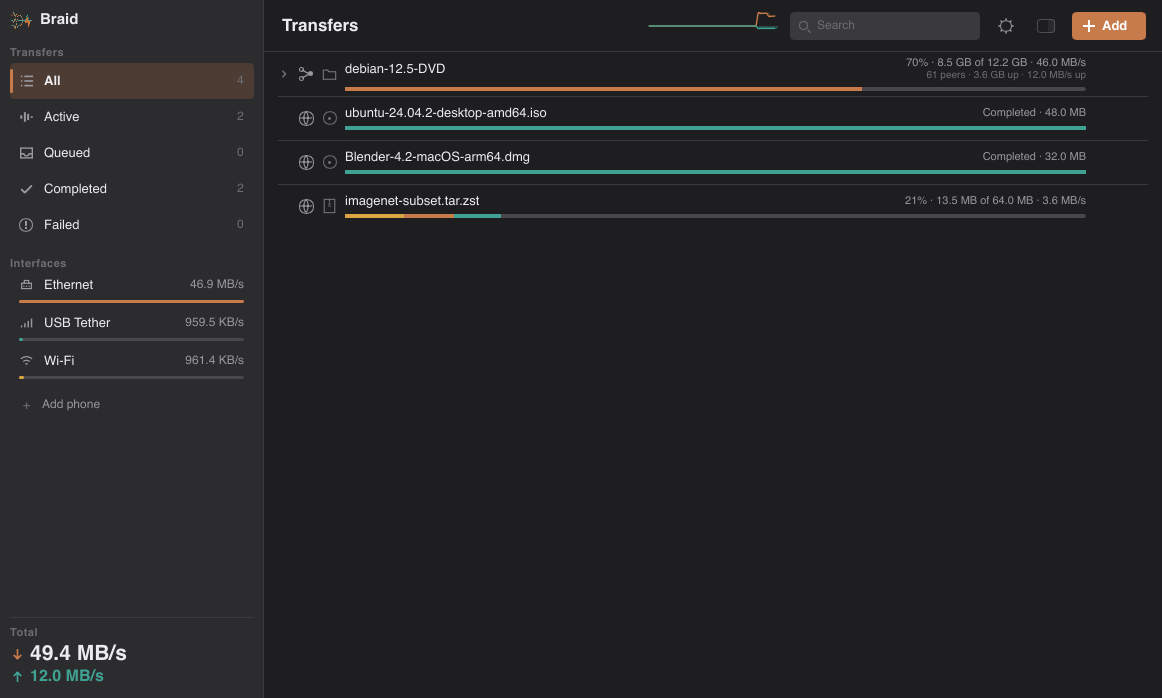
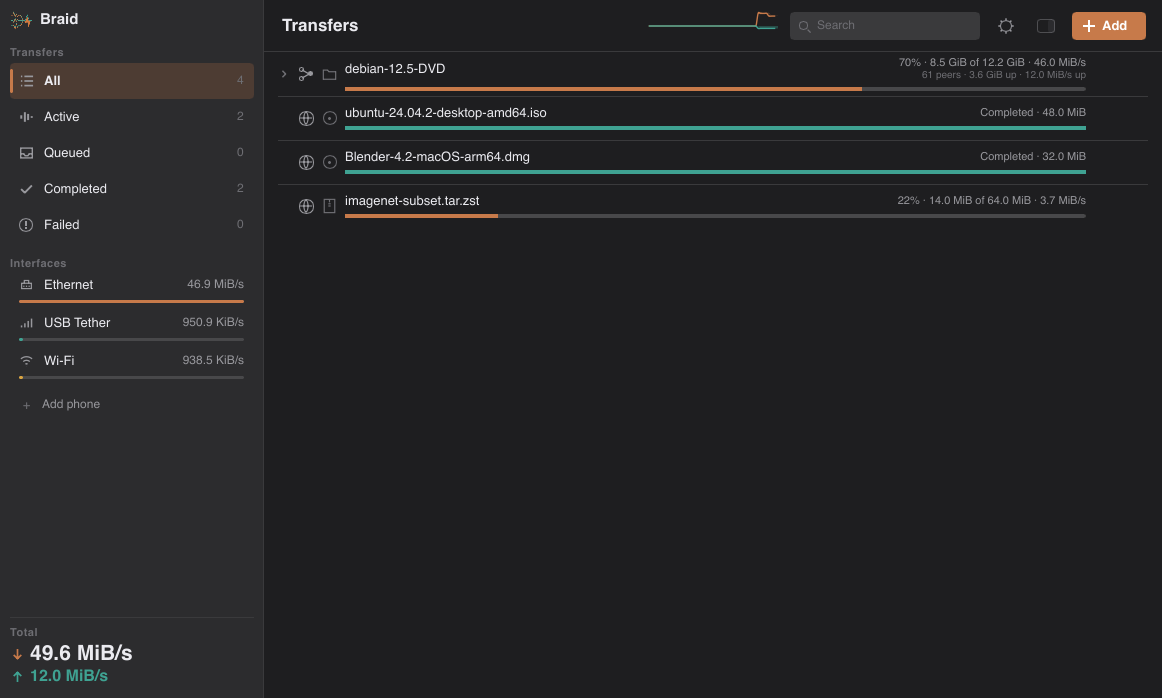
Label bytes with the units the arithmetic actually uses

diff --git a/crates/dl-cli/src/human.rs b/crates/dl-cli/src/human.rs
@@ -54,7 +54,11 @@ pub fn parse_digest(input: &str) -> Result<Digest> {
 }
 
 pub fn bytes(n: u64) -> String {
-    const UNITS: [&str; 5] = ["B", "KB", "MB", "GB", "TB"];
+    // Binary units with the labels that actually match them. Dividing by 1024
+    // and calling the result MB is the usual convention and still a lie: it
+    // reads seven percent low against the figure a download page quotes, and
+    // it disagreed with the phone companion, which counts the same transfer.
+    const UNITS: [&str; 5] = ["B", "KiB", "MiB", "GiB", "TiB"];
     let mut value = n as f64;
     let mut unit = 0;
     while value >= 1024.0 && unit < UNITS.len() - 1 {
@@ -192,9 +196,9 @@ mod tests {
     fn byte_formatting() {
         assert_eq!(bytes(0), "0 B");
         assert_eq!(bytes(1023), "1023 B");
-        assert_eq!(bytes(1024), "1.0 KB");
-        assert_eq!(bytes(1536), "1.5 KB");
-        assert_eq!(bytes(1 << 30), "1.0 GB");
+        assert_eq!(bytes(1024), "1.0 KiB");
+        assert_eq!(bytes(1536), "1.5 KiB");
+        assert_eq!(bytes(1 << 30), "1.0 GiB");
     }
 
     #[test]

diff --git a/crates/dl-gui/src/settings.rs b/crates/dl-gui/src/settings.rs
@@ -777,7 +777,11 @@ pub fn parse_rate(text: &str) -> Option<u64> {
 
 /// Render a rate back into the field it came from.
 pub fn format_rate(bytes_per_sec: u64) -> String {
-    const UNITS: [&str; 4] = ["B", "KB", "MB", "GB"];
+    // Binary units with the labels that actually match them. Dividing by 1024
+    // and calling the result MB is the usual convention and still a lie: it
+    // reads seven percent low against the figure a download page quotes, and
+    // it disagreed with the phone companion, which counts the same transfer.
+    const UNITS: [&str; 4] = ["B", "KiB", "MiB", "GiB"];
     let mut value = bytes_per_sec as f64;
     let mut unit = 0;
     while value >= 1024.0 && unit < UNITS.len() - 1 {
@@ -914,7 +918,7 @@ mod tests {
                 assert_eq!(parse_rate(&text), Some(rate), "{text} did not round-trip");
             }
         }
-        assert_eq!(format_rate_per_sec(20 << 20), "20 MB/s");
+        assert_eq!(format_rate_per_sec(20 << 20), "20 MiB/s");
     }
 
     #[test]

diff --git a/crates/dl-gui/src/bridge.rs b/crates/dl-gui/src/bridge.rs
@@ -77,7 +77,11 @@ fn axis_max(rate: u64) -> u64 {
 }
 
 pub fn format_bytes(n: u64) -> String {
-    const UNITS: [&str; 5] = ["B", "KB", "MB", "GB", "TB"];
+    // Binary units with the labels that actually match them. Dividing by 1024
+    // and calling the result MB is the usual convention and still a lie: it
+    // reads seven percent low against the figure a download page quotes, and
+    // it disagreed with the phone companion, which counts the same transfer.
+    const UNITS: [&str; 5] = ["B", "KiB", "MiB", "GiB", "TiB"];
     let mut value = n as f64;
     let mut unit = 0;
     while value >= 1024.0 && unit < UNITS.len() - 1 {
@@ -1403,8 +1407,8 @@ mod tests {
     #[test]
     fn byte_formatting() {
         assert_eq!(format_bytes(0), "0 B");
-        assert_eq!(format_bytes(1024), "1.0 KB");
-        assert_eq!(format_bytes(1 << 30), "1.0 GB");
+        assert_eq!(format_bytes(1024), "1.0 KiB");
+        assert_eq!(format_bytes(1 << 30), "1.0 GiB");
     }
 
     #[test]

diff --git a/xtask/src/size.rs b/xtask/src/size.rs
@@ -40,7 +40,7 @@ pub fn run() -> Result<()> {
         let path = root.join("target/release").join(format!("{bin}{EXE}"));
         let bytes =
             std::fs::metadata(&path).with_context(|| format!("stat {}", path.display()))?.len();
-        println!("  {bin:<8} {bytes:>12} bytes ({:.2} MB)", bytes as f64 / 1_048_576.0);
+        println!("  {bin:<8} {bytes:>12} bytes ({:.2} MiB)", bytes as f64 / 1_048_576.0);
     }
 
     verify_release_is_clean()

diff --git a/crates/dl-cli/src/main.rs b/crates/dl-cli/src/main.rs
@@ -91,7 +91,7 @@ struct AddArgs {
     verify: Option<String>,
 
     /// How hard to work to survive a power cut: `safe` flushes on every
-    /// completed chunk, `balanced` on a 5 second or 64 MB floor, `fast` leaves
+    /// completed chunk, `balanced` on a 5 second or 64 MiB floor, `fast` leaves
     /// the journal flush to the operating system.
     ///
     /// Looser modes never risk a wrong file: only more re-downloading after a

diff --git a/README.md b/README.md
@@ -19,7 +19,7 @@
   <img alt="Platforms" src="https://img.shields.io/badge/macOS%20%C2%B7%20Windows%20%C2%B7%20Linux-14110E?style=flat-square">
   <img alt="Rust" src="https://img.shields.io/badge/Rust-D07A40?style=flat-square&logo=rust&logoColor=white">
   <img alt="Licence" src="https://img.shields.io/badge/GPL--3.0-3FA292?style=flat-square">
-  <img alt="Binary size" src="https://img.shields.io/badge/15.5%20to%2023.4%20MB-14110E?style=flat-square">
+  <img alt="Binary size" src="https://img.shields.io/badge/15.5%20to%2023.4%20MiB-14110E?style=flat-square">
 </p>
 
 ---
@@ -138,7 +138,7 @@ One build for every architecture, since it carries no native code.
 | | |
 |---|---|
 | Requires | Android 8.0 or newer |
-| Download | `braid-android-0.1.0.apk`, 523 KB, with `SHA256SUMS` |
+| Download | `braid-android-0.1.0.apk`, 511 KiB, with `SHA256SUMS` |
 | Signing key | `04:C0:0D:53:6A:D1:DB:AD:25:90:C8:43:3C:41:6B:EA:6A:66:4C:9E:2B:4C:B6:E5:49:C2:4F:80:B5:08:77:E2` |
 
 That repository is **private** for now, so the link works only for InfoDive Labs
@@ -233,8 +233,8 @@ they differ only in how often the pair happens.
 | Mode | Flushes | Journal |
 |---|---|---|
 | Safe | every chunk | waits for the drive |
-| Balanced | 5 s or 64 MB | waits for the drive |
-| Fast | 30 s or 512 MB | leaves it to the OS |
+| Balanced | 5 s or 64 MiB | waits for the drive |
+| Fast | 30 s or 512 MiB | leaves it to the OS |
 
 ---
 

diff --git a/DEVELOPMENT.md b/DEVELOPMENT.md
@@ -129,8 +129,8 @@ which is why this uses femtovg rather than skia.
 ```console
 $ cargo run -p xtask -- size
 release binaries for aarch64-apple-darwin
-  dl            6191184 bytes (5.90 MB)
-  braid        16258496 bytes (15.51 MB)
+  dl            6191184 bytes (5.90 MiB)
+  braid        16258496 bytes (15.51 MiB)
 ```
 
 Reported per platform, not checked against a stored number: a macOS arm64
